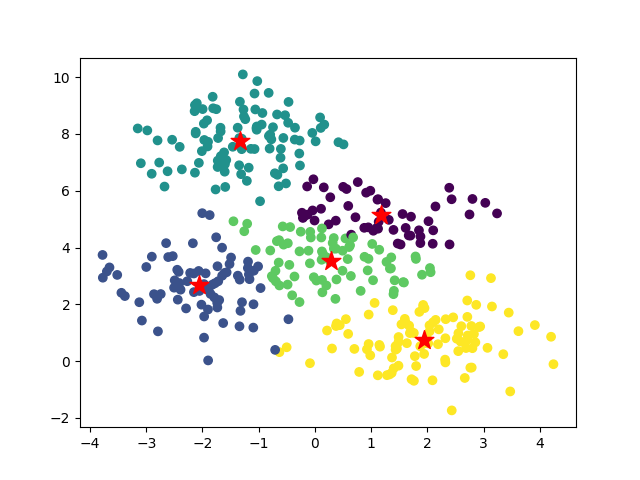
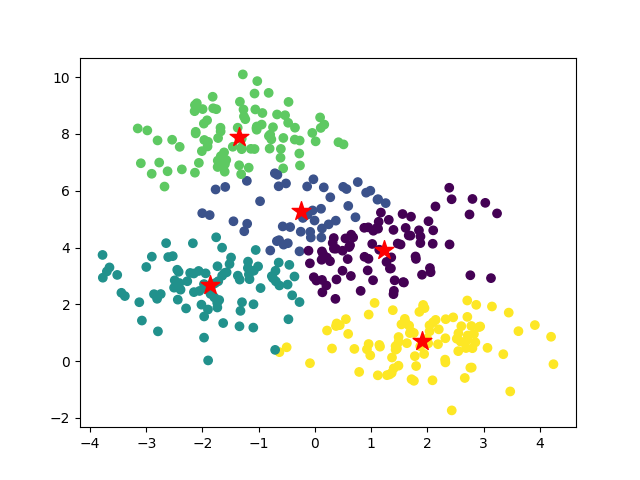
kmedoids

diff --git a/run_kmedoids.py b/run_kmedoids.py
@@ -1,0 +1,105 @@
+# K-Mean Clustering Algorithm : WRITING FUNCTION
+
+import pandas
+from sklearn.cluster import kmedoids # python -m pip install scikit-learn
+from sklean_extra.cluster import KMedoids
+
+import matplotlib.pyplot as pyplot
+import numpy
+
+from sklearn.metrics import silhouette_score
+
+data = pandas.read_csv("dataset.csv")
+
+print(data)
+data = data.values # Transformation: two values in one array, array of arrays ; loads to sklearn better; though looses some functionalities such as matrix operation
+print(data)
+
+
+# Visualization: 
+pyplot.scatter(data[:,0], data[:,1]) # row, column (all rows, first column)
+pyplot.savefig("scatterplot.png") # no need for this if using Jupyter Notebook
+
+
+def run_kmeans(n, data): 	
+	machine = KMeans(n_clusters = n) 
+	machine.fit(data)
+	results = machine.predict(data)
+	centroids = machine.cluster_centers_ # internal use
+	ssd = machine.inertia_ #sum of square deviations
+	# print(ssd)
+	silhouette = 0
+	if n>1:
+		silhouette = silhouette_score(data, machine.labels_, metric = 'euclidean')
+	pyplot.scatter(data[:,0], data[:,1], c = results) # row, column (all rows, first column)
+	pyplot.scatter(centroids[:,0], centroids[:,1], c='red', marker= "*", s=200)
+	pyplot.savefig("scatterplot_kmeans_colors_"+ str(n) + ".png") # no need for this if using Jupyter Notebook
+	pyplot.close()
+	return ssd, silhouette
+
+
+
+def run_KMedoids(n, data): 	
+	machine = KMedoids(n_clusters = n) 
+	machine.fit(data)
+	results = machine.predict(data)
+	centroids = machine.cluster_centers_ # internal use
+	ssd = machine.inertia_ #sum of square deviations
+	# print(ssd)
+	silhouette = 0
+	if n>1:
+		silhouette = silhouette_score(data, machine.labels_, metric = 'euclidean')
+	pyplot.scatter(data[:,0], data[:,1], c = results) # row, column (all rows, first column)
+	pyplot.scatter(centroids[:,0], centroids[:,1], c='red', marker= "*", s=200)
+	pyplot.savefig("scatterplot_kmedoids_colors_"+ str(n) + ".png") # no need for this if using Jupyter Notebook
+	pyplot.close()
+	return ssd, silhouette
+
+
+result = [run_kmeans(i+1, data) for i in range(7)][1:]
+print(result)
+
+pyplot.plot(range(1,8), result)
+pyplot.savefig("ssd.png")
+pyplot.close() # Interpretaion: see almost linear flat curve after n=4
+
+
+result_diff = [result[i-1] - x for i,x in enumerate(results)] [1:] # [1:] is the way to drop the first element
+print(result_diff)
+
+pyplot.plot(range(1,8), silhouette_result)
+pyplot.savefig("silhouette.png")
+pyplot.close()
+
+print("\nssd: \n", ssd_result)
+print("\nssd differences: \n", ssd_result_diff)
+
+
+print("\nsilhouette scores: \n", silhouette_result)
+print("\nmax silhouette scores: \n", max(silhouette_result))
+print("\nnumber of cluster with max silhouette scores: \n", silhouette_result.index(max(silhouette_result))+2)
+
+
+result = [run_kmedoids(i+1, data) for i in range(7)][1:]
+print(result)
+
+pyplot.plot(range(1,8), result)
+pyplot.savefig("ssd.png")
+pyplot.close() # Interpretaion: see almost linear flat curve after n=4
+
+
+result_diff = [result[i-1] - x for i,x in enumerate(results)] [1:] # [1:] is the way to drop the first element
+print(result_diff)
+
+pyplot.plot(range(2,8), silhouette_result)
+pyplot.savefig("silhouette.png")
+pyplot.close()
+
+print("\nssd: \n", ssd_result)
+print("\nssd differences: \n", ssd_result_diff)
+
+
+print("\nsilhouette scores: \n", silhouette_result)
+print("\nmax silhouette scores: \n", max(silhouette_result))
+print("\nnumber of cluster with max silhouette scores: \n", silhouette_result.index(max(silhouette_result))+2)
+

diff --git a/function_kmc.py b/function_kmc.py
@@ -45,8 +45,11 @@ def run_kmeans(n, data):
 # 	ssd = run_kmeans(i+1, data)
 # 	result.append(ssd)
 
-result = [run_kmeans(i+1, data) for i in range(7)][1:]
-print(result)
+result = [run_kmeans(i+1, data) for i in range(7)]
+print("\nresult:\n", result)
+
+ssd_result = [ i[0] for i in result] 
+silhouette_result = [ i[1] for i in result][1:]
 
 pyplot.plot(range(1,8), result)
 pyplot.savefig("ssd.png")
@@ -57,8 +60,8 @@ pyplot.close() # Interpretaion: see almost linear flat curve after n=4
 # 	diff = result[i-1] - x
 # 	result_diff.append(diff)
 
-result_diff = [result[i-1] - x for i,x in enumerate(results)] [1:] # [1:] is the way to drop the first element
-print(result_diff)
+sdd_result_diff = [sdd_result[i-1] - x for i,x in enumerate(sdd_results)] [1:] # [1:] is the way to drop the first element
+print(sdd_result_diff)
 
 # Remembering:
 # The closest center of gravity 

diff --git a/run_kmc.py b/run_kmc.py
@@ -9,7 +9,7 @@ data = pandas.read_csv("dataset.csv")
 print(data)
 
 # Example 1: x1 = Density of tree , x2 =  number of shops
-# Example 2: x1 = Number of tickets if individual, x2 = occupation of individual
+# Example 2: x1 = Number of tickets of individual, x2 = occupation of individual
 
 # Transformation: Sklearn doesn't support DataFrame format very well -> so there is a need to transform to 
 data = data.values # two values in one array, array of arrays ; loads to sklearn better; though looses some functionalities such as matrix operation
@@ -48,4 +48,4 @@ centroids = machine.cluster_centers_
 pyplot.scatter(data[:,0], data[:,1], c = results) # row, column (all rows, first column)
 pyplot.scatter(centroids[:,0], centroids[:,1], c='red', marker= "*", s=200)
 pyplot.savefig("scatterplot_colors.png") # no need for this if using Jupyter Notebook
-
+pyplot.close()
